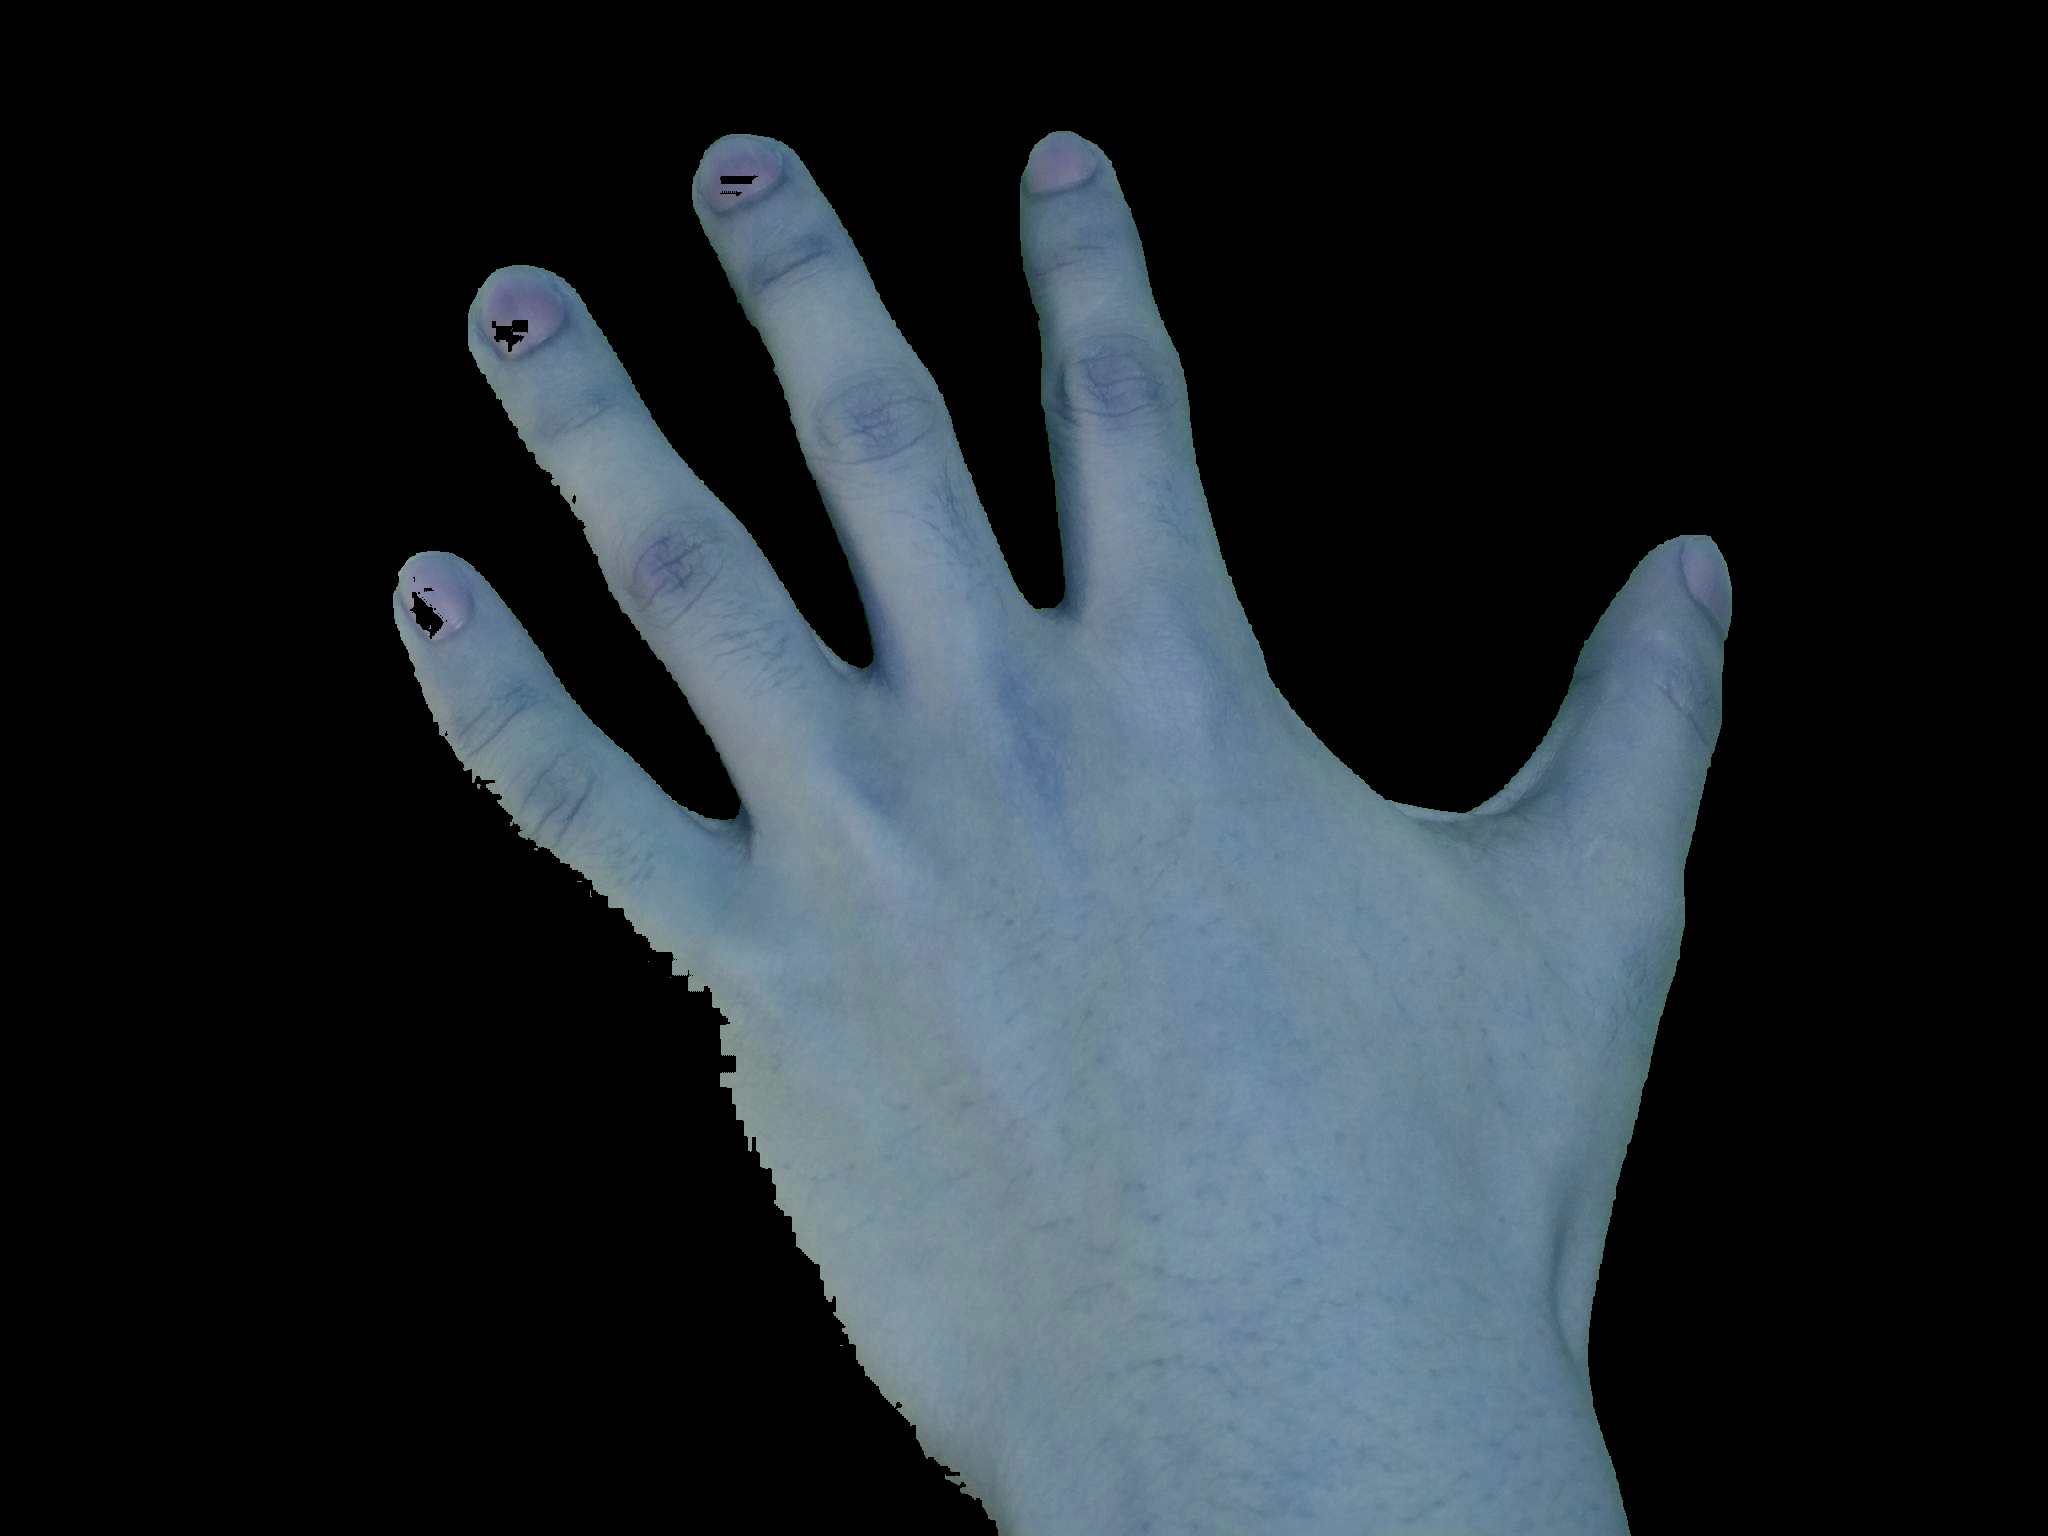
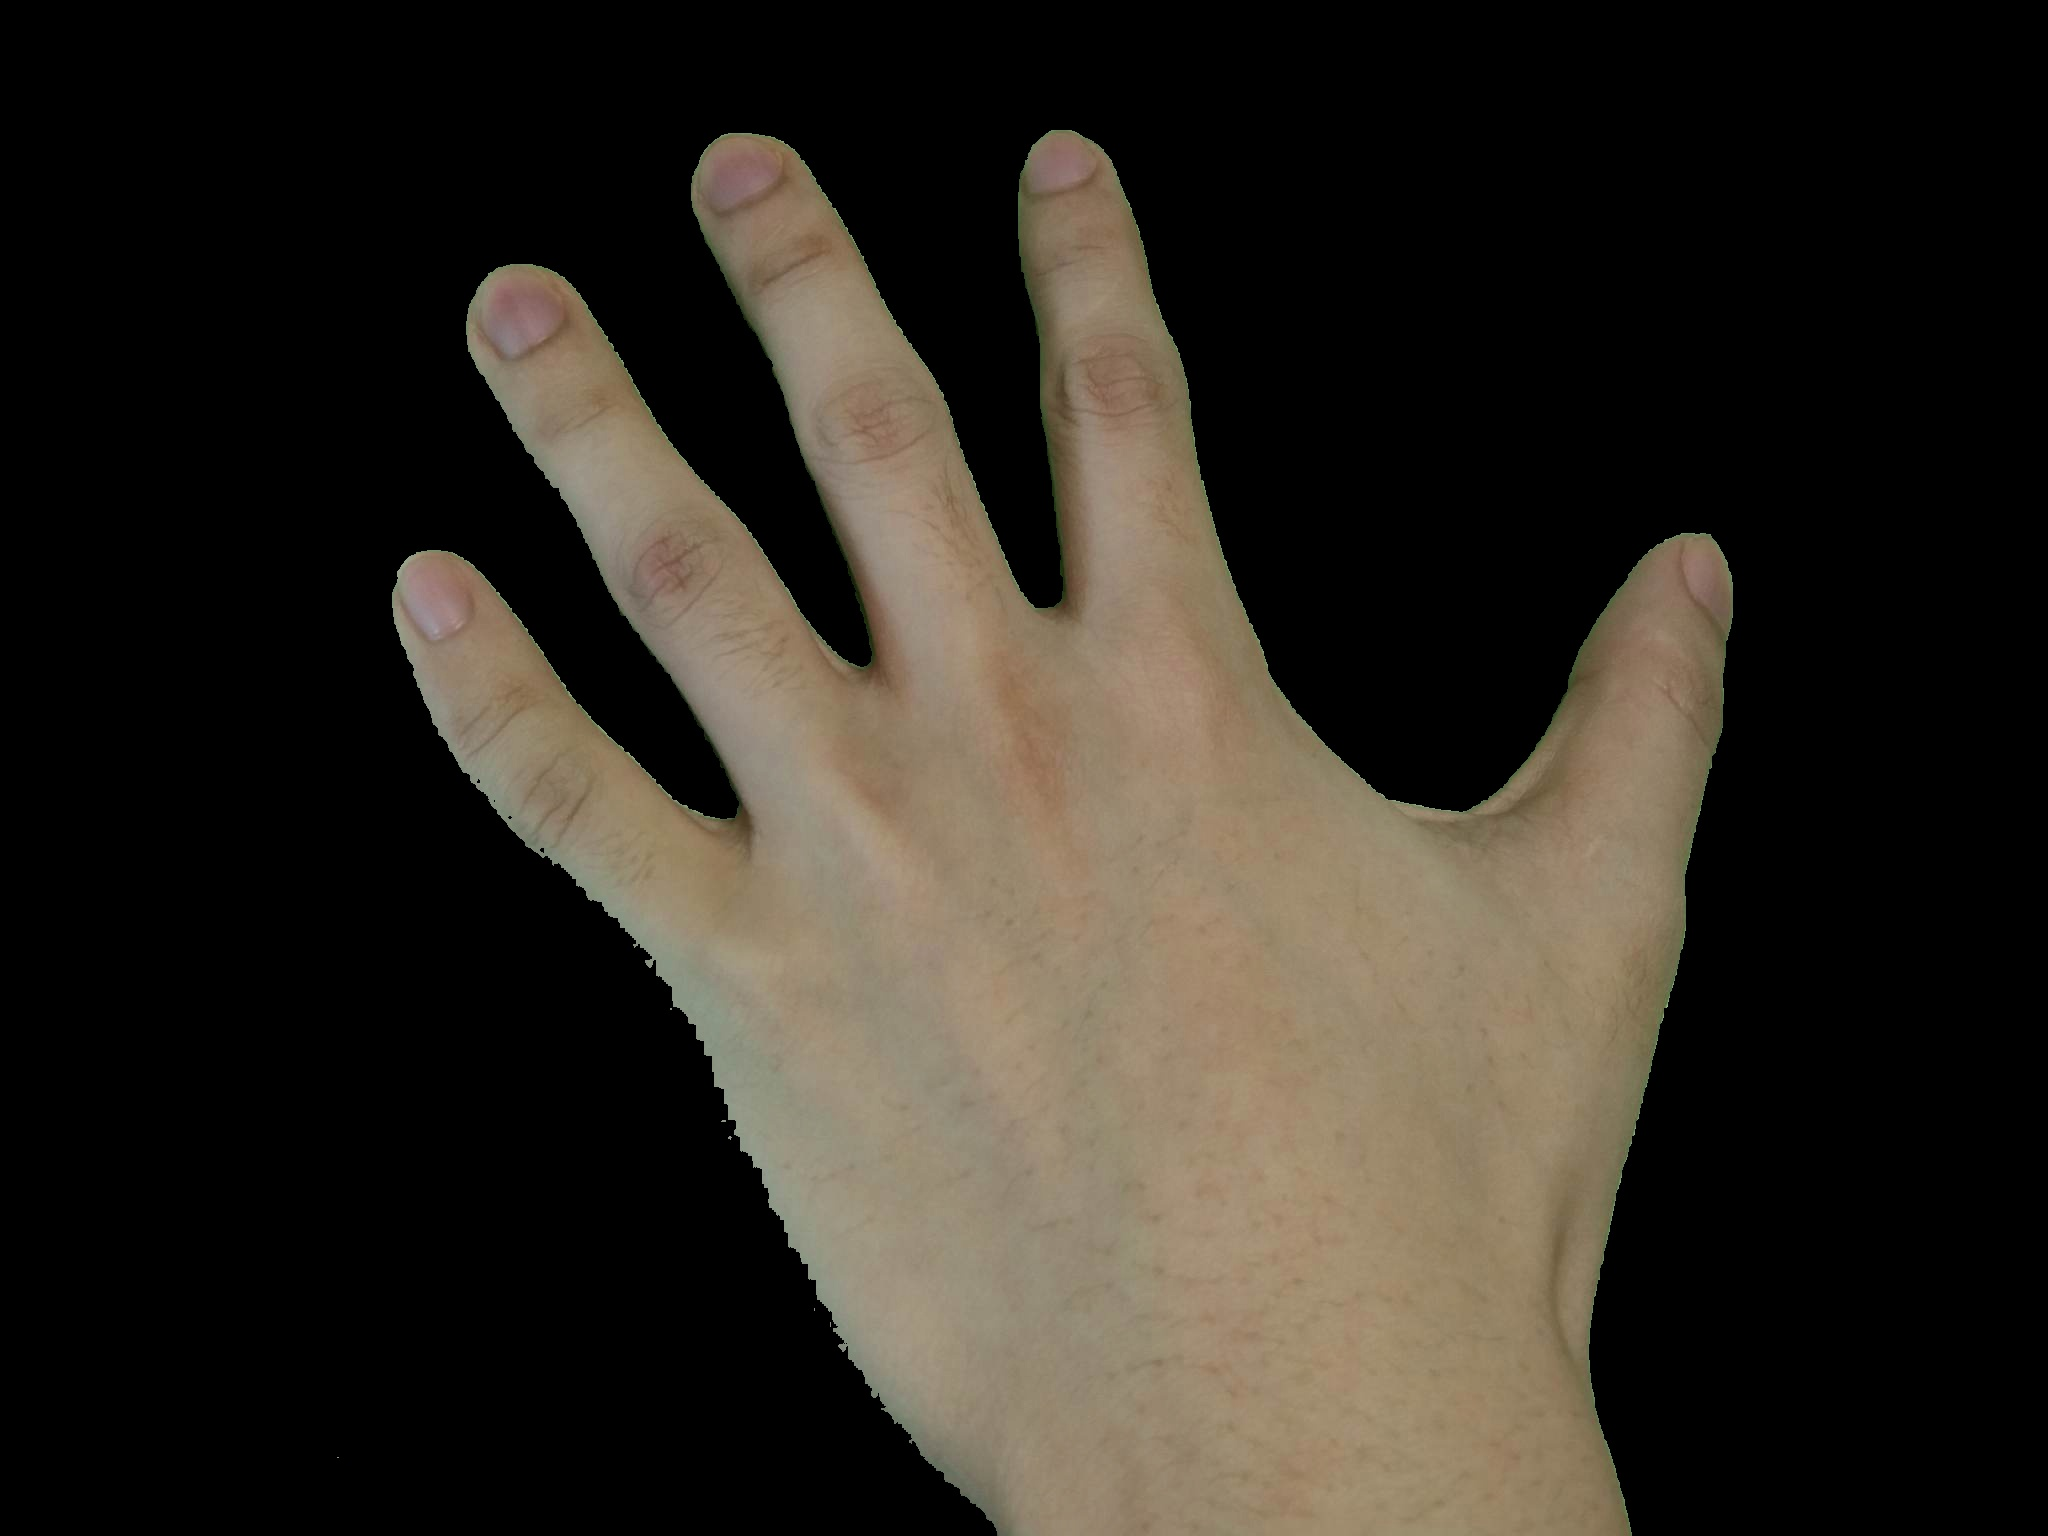
complete

diff --git a/ex2.py b/ex2.py
@@ -3,14 +3,19 @@ import numpy as np
 import matplotlib.pyplot as plt
 
 img = cv2.imread("./input/input.jpg")
-hsv_img = cv2.cvtColor(img, cv2.COLOR_RGB2HSV)
+hsv_img = cv2.cvtColor(img, cv2.COLOR_BGR2HSV)
 h, s, v = cv2.split(hsv_img)
 
-low, high = 80, 120
-hand_area = (h >= low) & (h <= high)
+low, high = 0, 50
+hand_area = ((h >= low) & (h <= high)) | (h >= 100)
 hand_area = ~hand_area
 
 hsv_img[hand_area, 2] = 0
 save_img = cv2.cvtColor(hsv_img, cv2.COLOR_HSV2BGR)
 
 cv2.imwrite("./output/output_hand.jpg", save_img)
+
+
+# value, bins = np.histogram(h, 256, [0, 256])
+# plt.plot(range(256), value)
+# plt.show()
